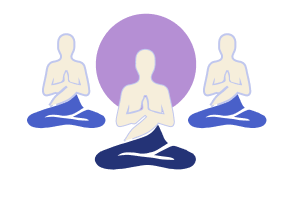
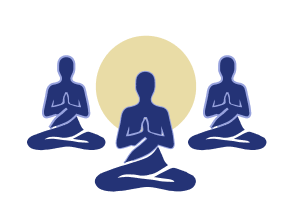
feat: enhance classes and selected classes components; update styles, add back navigation, and improve filter functionality

diff --git a/src/app/selected-classes-component/selected-classes/selected-classes.css b/src/app/selected-classes-component/selected-classes/selected-classes.css
@@ -1,33 +1,57 @@
+
 .container {
-    padding-top: 50px;
     display: flex;
     flex-direction: column;
     justify-content: flex-start;
     align-items: center;
     position: relative;
     background: #EAEAFA;
-    gap: 80px;
-    background: #EAEAFA;
-    margin-left: auto;
-    margin-right: auto;
     min-height: 1050px;
+   margin-left: auto;
+    margin-right: auto;
+}
+
+.back-container {
+    display: flex;
+    align-items: center;
+    gap: 10px;
+    cursor: pointer;
+    cursor: pointer;
+    align-self: center;
+    width: 1285px;
+    margin-top: 20px;
+}
+
+
+.back-container img {
+    width: 10px;
+    height: 15px;
+}
+
+.back-container label {
+    font-family: 'Montserrat';
+    font-style: normal;
+    font-weight: 500;
+    font-size: 14px;
+    line-height: 25px;
+    display: flex;
+    letter-spacing: 0.02em;
+    text-transform: capitalize;
+    color: #243376;
+    flex: none;
+    order: 0;
+    flex-grow: 0;
+    height: 20px;
 }
 
 header {
-    width: 68%;
     position: relative;
-    height: 89px;
     display: flex;
-    flex-direction: row;
-    justify-content: flex-start;
+    flex-direction: column;
+    justify-content: center;
     align-items: center;
-    gap: 100px;
-    margin-top: 60px;
-}
-
-header img {
-    width: 50px;
-    height: 50px;
+    gap: 20px;
+    margin-bottom: 40px;
 }
 
 .my-selected-classes-container {
@@ -36,6 +60,23 @@ header img {
     justify-content: center;
     align-items: center;
     gap: 25px;
+}
+
+.selected-classes-description {
+    display: flex;
+    margin-bottom: 50px;
+}
+
+.selected-classes-description label {
+    font-family: 'Raleway';
+    font-style: normal;
+    font-weight: 400;
+    font-size: 25px;
+    line-height: 30px;
+    text-align: center;
+    letter-spacing: 0.02em;
+    text-transform: capitalize;
+    color: #243376;
 }
 
 .my-selected-classes {
@@ -60,7 +101,7 @@ header img {
 }
 
 .classes-container {
-    width: 68%;
+    width: 1285px;
     display: flex;
     flex-direction: column;
     justify-content: center;
@@ -79,7 +120,6 @@ header img {
     align-items: flex-start;
     justify-content: flex-start;
     gap: 20px;
-    height: 226px;    
 }
 
 .teacher-name {
@@ -97,7 +137,7 @@ header img {
 }
 
 video {
-    width: 400px;
+    width: 605px;
     border-radius: 10px;
     flex: none;
     order: 0;

diff --git a/src/app/selected-classes-component/selected-classes/selected-classes.html b/src/app/selected-classes-component/selected-classes/selected-classes.html
@@ -2,14 +2,21 @@
 <app-classes-navbar [yogaStyleId]="yogaStyleId()"></app-classes-navbar>
 
 <div class="container">
+    <div class="back-container" (click)="back()">
+        <img [src]="'/assets/images/back.png'">
+        <label>back</label>
+    </div>
     <header>
-        <img [src]="isBackHovered ? '/assets/images/back-hover.png' : '/assets/images/back.png'" (click)="back()"
-            (mouseenter)="isBackHovered = true" (mouseleave)="isBackHovered = false" alt="Back">
         <div class="my-selected-classes-container">
             <div class="my-selected-classes">my</div>
-            <div class="my-selected-classes-bold">selected</div>
-            <div class="my-selected-classes">classes</div>
+            <div class="my-selected-classes-bold">yoga space</div>
         </div>
+            
+        <div class="selected-classes-description">
+            <label>This page brings together all the lessons you gathered from the site</label>
+        </div>
+
+        <app-main-filter [width]="1285"></app-main-filter>
     </header>
     <div class="classes-container">
         @for (yogaClass of classes$ | async; track yogaClass) {

diff --git a/src/app/selected-classes-component/selected-classes/selected-classes.ts b/src/app/selected-classes-component/selected-classes/selected-classes.ts
@@ -7,12 +7,13 @@ import { Observable } from 'rxjs';
 import { AsyncPipe } from '@angular/common';
 import { MainHeader } from '../../shared/main-header-component/main-header/main-header';
 import { ClassesNavbar } from '../../shared/classes-navbar-component/classes-navbar/classes-navbar';
+import { MainFilter } from '../../shared/main-filter-component/main-filter/main-filter';
 
 type YogaStyleId = (typeof yogaStyles)[number] | 'all';
 
 @Component({
   selector: 'app-selected-classes',
-  imports: [YogaClass, AsyncPipe, MainHeader, ClassesNavbar],
+  imports: [YogaClass, AsyncPipe, MainHeader, ClassesNavbar, MainFilter],
   templateUrl: './selected-classes.html',
   styleUrl: './selected-classes.css',
 })

diff --git a/src/app/classes-page-component/classes-page.component.css b/src/app/classes-page-component/classes-page.component.css
@@ -5,8 +5,9 @@
   align-items: center;
   gap: 25px;
   height: 2480px;
-  width: 1920px;
   background: #D1E4F5;
+  margin-right: auto;
+  margin-left: auto;
 }
 
 .main-classes-container {
@@ -16,12 +17,14 @@
   display: flex;
   flex-direction: column;
   align-items: flex-start;
+  justify-content: center;
   box-sizing: border-box;
   background: #B2C3DE;
   border: 1px solid #3A82B8;
   border-radius: 10px;
   margin-top: 50px;
   margin-bottom: 15px;
+
 }
 
 .selected-header-classes-container {
@@ -176,7 +179,7 @@
   cursor: pointer;
 }
 
-app-main-filter {
+/* app-main-filter {
   margin-top: 30px;
   margin-bottom: 30px;
-}
+} */

diff --git a/src/app/services/yoga-classes-service.ts b/src/app/services/yoga-classes-service.ts
@@ -92,7 +92,7 @@ const STYLE_THEME: Record<YogaStyleId, YogaStyleDescription> = {
     yogaImg: '/assets/images/beyond1.png',
     yogaImgHover: '/assets/images/beyond2.png',
     headerBackgroundImage: "url('/assets/images/beyond-background.png')",
-    headerBackgroundColor: '#7C70B7',
+    headerBackgroundColor: '#8978DB',
     classesBodyBackgroundColor: '#DEE8F2',
     defaultSrc: '/assets/images/beyond-main1.png',
     hoverSrc: '/assets/images/beyond-main2.png'

diff --git a/src/app/classes-page-component/classes-page.component.html b/src/app/classes-page-component/classes-page.component.html
@@ -38,7 +38,7 @@
         </div>
       </div>
 
-      <app-main-filter (selectedFilters)="onFilterChange($event)"></app-main-filter>
+      <app-main-filter (selectedFilters)="onFilterChange($event)" [width]="1297"></app-main-filter>
 
       @if (classes$ | async; as classes) {
       <app-classes-display [classes]="classes" [selectedClasses]="selectedClasses" [descriptionHeight]="60"

diff --git a/src/app/shared/main-filter-component/main-filter/main-filter.ts b/src/app/shared/main-filter-component/main-filter/main-filter.ts
@@ -15,7 +15,7 @@ export class MainFilter {
   durations = durations;
   challengeLevels = challengeLevels;
   existingFilters = new Map<string, FilterChange[]>();
-  readonly selectedStyleId = input<string>();
+  readonly width = input<number>();
   readonly selectedFilters = output<FilterChange[]>();
   
   onFilterChange(changed: FilterChange, filter: string) {

diff --git a/src/app/shared/main-filter-component/main-filter/main-filter.html b/src/app/shared/main-filter-component/main-filter/main-filter.html
@@ -1,4 +1,4 @@
-<div class="filters-row-container">
+<div class="filters-row-container" [style.width.px]="width()">
   <div class="filter-img-container">
     <img src="/assets/images/filter.png" class="filter-img">
   </div>

diff --git a/src/app/shared/main-filter-component/main-filter/main-filter.css b/src/app/shared/main-filter-component/main-filter/main-filter.css
@@ -3,7 +3,6 @@
   flex-direction: row;
   justify-content: flex-start;
   align-items: center;
-  width: 1297px;
   height: 21px;
   gap: 40px;
 }
